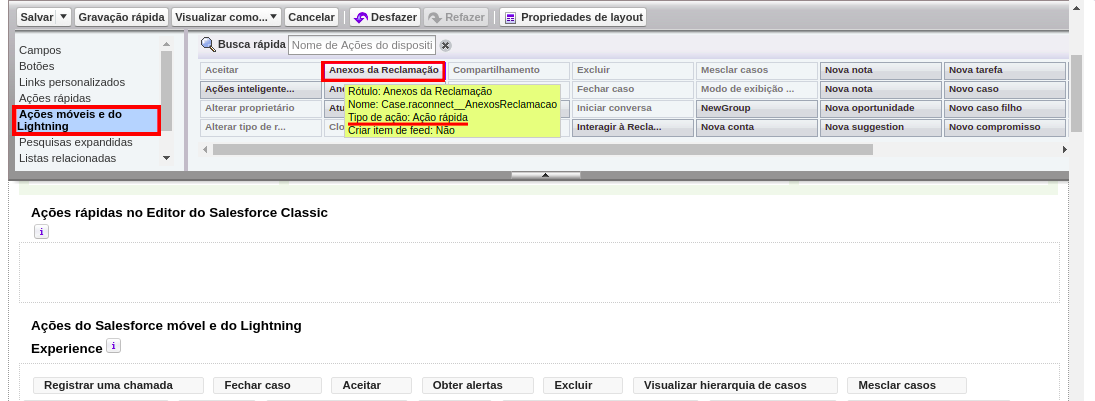
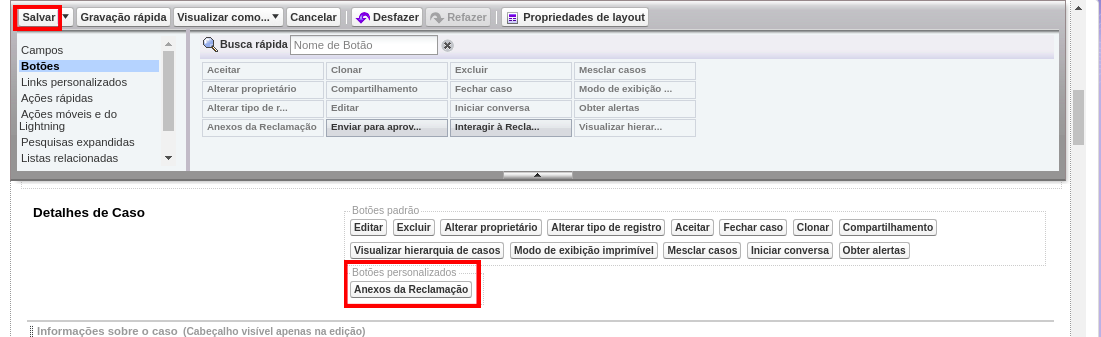
Att doc Anexos Reclamacao

diff --git a/docs/Setup/anexos_reclamacao.rst b/docs/Setup/anexos_reclamacao.rst
@@ -2,12 +2,12 @@
 Exibir Anexos da Reclamação
 #################
 
-Há dois botões para a funcionalidade de exibir os anexos: um para a experiência Classic (que também funciona no Lightning) e outro apenas para Lightning.
+Há dois botões para a funcionalidade de exibir os anexos: um para a experiência Classic e outro para Lightning.
 
-.. Hint:: O botão para a experiência do Lightning só funciona se o Chatter estiver desativado.
+Adicionando o botão no Classic
+-----------------------
 
-Para habilitar a funcionalidade dos botões "Anexos da Reclamação", é necessário primeiro adicioná-los ao Layout do Caso.
-Em Configuração, vá em Gerenciador de objetos e procure por Caso, como na figura:
+Em **Configuração**, vá em **Gerenciador de objetos** e procure por **Caso**, como na figura:
 
 
 .. figure:: img/clicarCaso.png
@@ -17,7 +17,7 @@ Em Configuração, vá em Gerenciador de objetos e procure por Caso, como na fig
     Clicar em Caso
 
 
-Depois, clicar em "Layouts de página de Caso", escolher o Layout desejado e clicar em Editar, como na figura:
+Depois, clicar em **Layouts de página de Caso**, escolher o Layout desejado e clicar em Editar, como na figura:
 
 
 .. figure:: img/clicarLayoutCaso.png
@@ -27,45 +27,80 @@ Depois, clicar em "Layouts de página de Caso", escolher o Layout desejado e cli
     Clicar em Editar
 
 
-**Primeiro vamos adicionar o botão para a experiência do Lightning:**
-
-Na tela de edição de Layout, na seção "Ações do Salesforce móvel e do Lightning Experience", clicar em "substituir as ações predeterminadas":
-
+Clique em **Botões** e arraste o botão **Anexos da Reclamação** para a seção de botões personalizados:
 
 .. figure:: img/casoLayoutEditar1.png
     :alt: Solidity logo
     :align: center
-    
-    É possível que este passo não seja necessário!
-
-
-Depois, procurar por "Ações móveis e do Lightning" e arrastar a **Ação Rápida** "Anexos da Reclamação" para a seção "Ações do Salesforce móvel e do Lightning Experience", como nas figuras abaixo:
-
 
 .. figure:: img/casoLayoutEditar2.png
     :alt: Solidity logo
     :align: center
-    
-.. figure:: img/casoLayoutEditar3.png
-    :alt: Solidity logo
-    :align: center
-    
-    Este é o botão que funciona apenas no Lightning e com o Chatter desativado!
-    
-
-.. Hint:: Se o Chatter não puder ser desativado, arraste o outro elemento "Anexos da Reclamação" ao invés deste da foto.
-
-**Agora, adicionaremos o botão para a experiência do Classic:**
-
-.. figure:: img/casoLayoutEditar4.png
-    :alt: Solidity logo
-    :align: center
-
-.. figure:: img/casoLayoutEditar5.png
-    :alt: Solidity logo
-    :align: center
 
     Agora é só clicar em Salvar!
+
+
+Adicionando o botão no Lightning (Com Chatter)
+-----------------------
+
+**Se a sua organização utiliza Chatter, siga estes passos:**
+
+
+Acesse a página de qualquer Caso em sua organização e clique em **Editar Página**:
+
+
+.. figure:: img/casoEditarPagina.png
+    :alt: Solidity logo
+    :align: center
+
+
+Clique na **seção** da página onde o botão ficará (1), depois em **Adicionar ação** (2).
+Pesquise por **Anexos da Reclamação** (3) e clique em **Concluído** (4):
+
+.. figure:: img/casoLightningEditar1.png
+    :alt: Solidity logo
+    :align: center
+
+
+Agora arraste a ação **Anexos da Reclamação** onde desejar (1), salve (2) e clique em Ativação... (3):
+
+.. figure:: img/casoLightningEditar2.png
+    :alt: Solidity logo
+    :align: center
+
+    Agora é só seguir o processo de Ativação!
+
+
+Adicionando o botão no Lightning (Sem Chatter)
+-----------------------
+
+**Se a sua organização não utiliza Chatter, siga estes passos:**
+
+Em **Configuração**, vá em **Gerenciador de objetos** e procure por **Caso**, como na figura:
+
+
+.. figure:: img/clicarCaso.png
+    :alt: Solidity logo
+    :align: center
+    
+    Clicar em Caso
+
+
+Depois, clicar em **Layouts de página de Caso**, escolher o Layout desejado e clicar em Editar, como na figura:
+
+
+.. figure:: img/clicarLayoutCaso.png
+    :alt: Solidity logo
+    :align: center
+    
+    Clicar em Editar
+
+
+
+
+
+Visualizando Anexos
+-----------------------
 
 
 Para ver os anexos pertencentes a uma reclamação, acesse a página "Casos" e encontre o Caso referente à reclamação. Após abrir a página do Caso, clique no botão Anexos da Reclamação:
